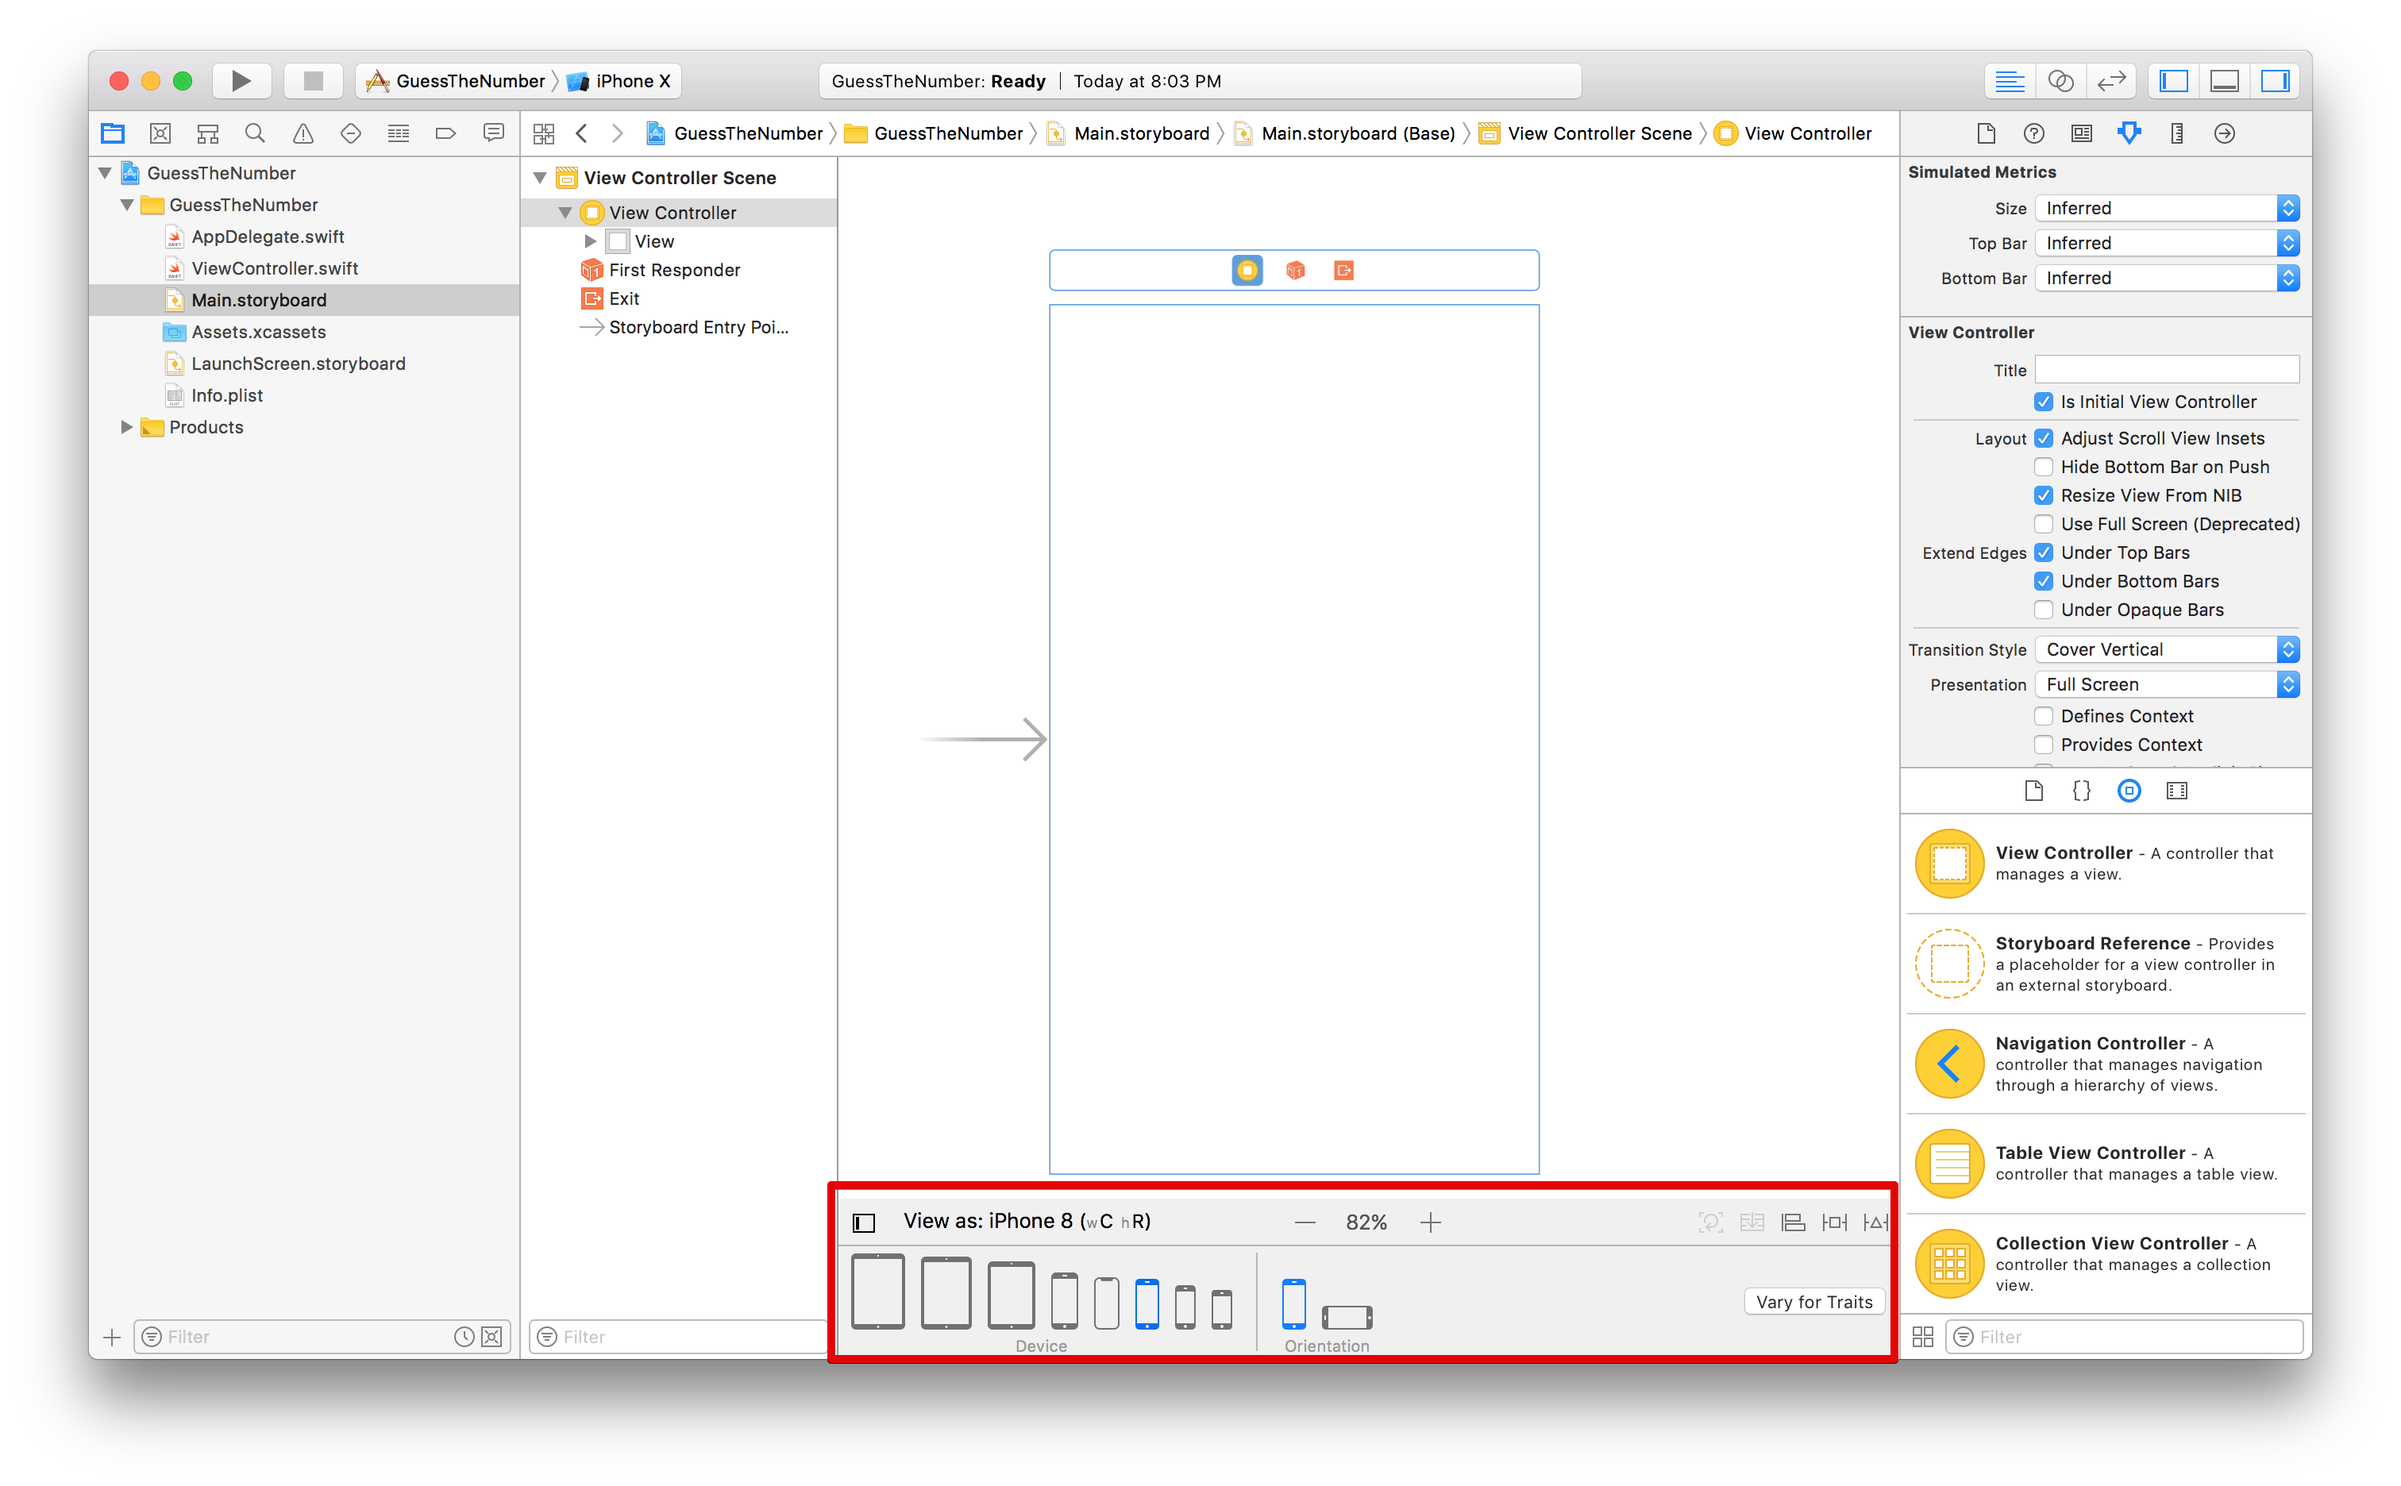
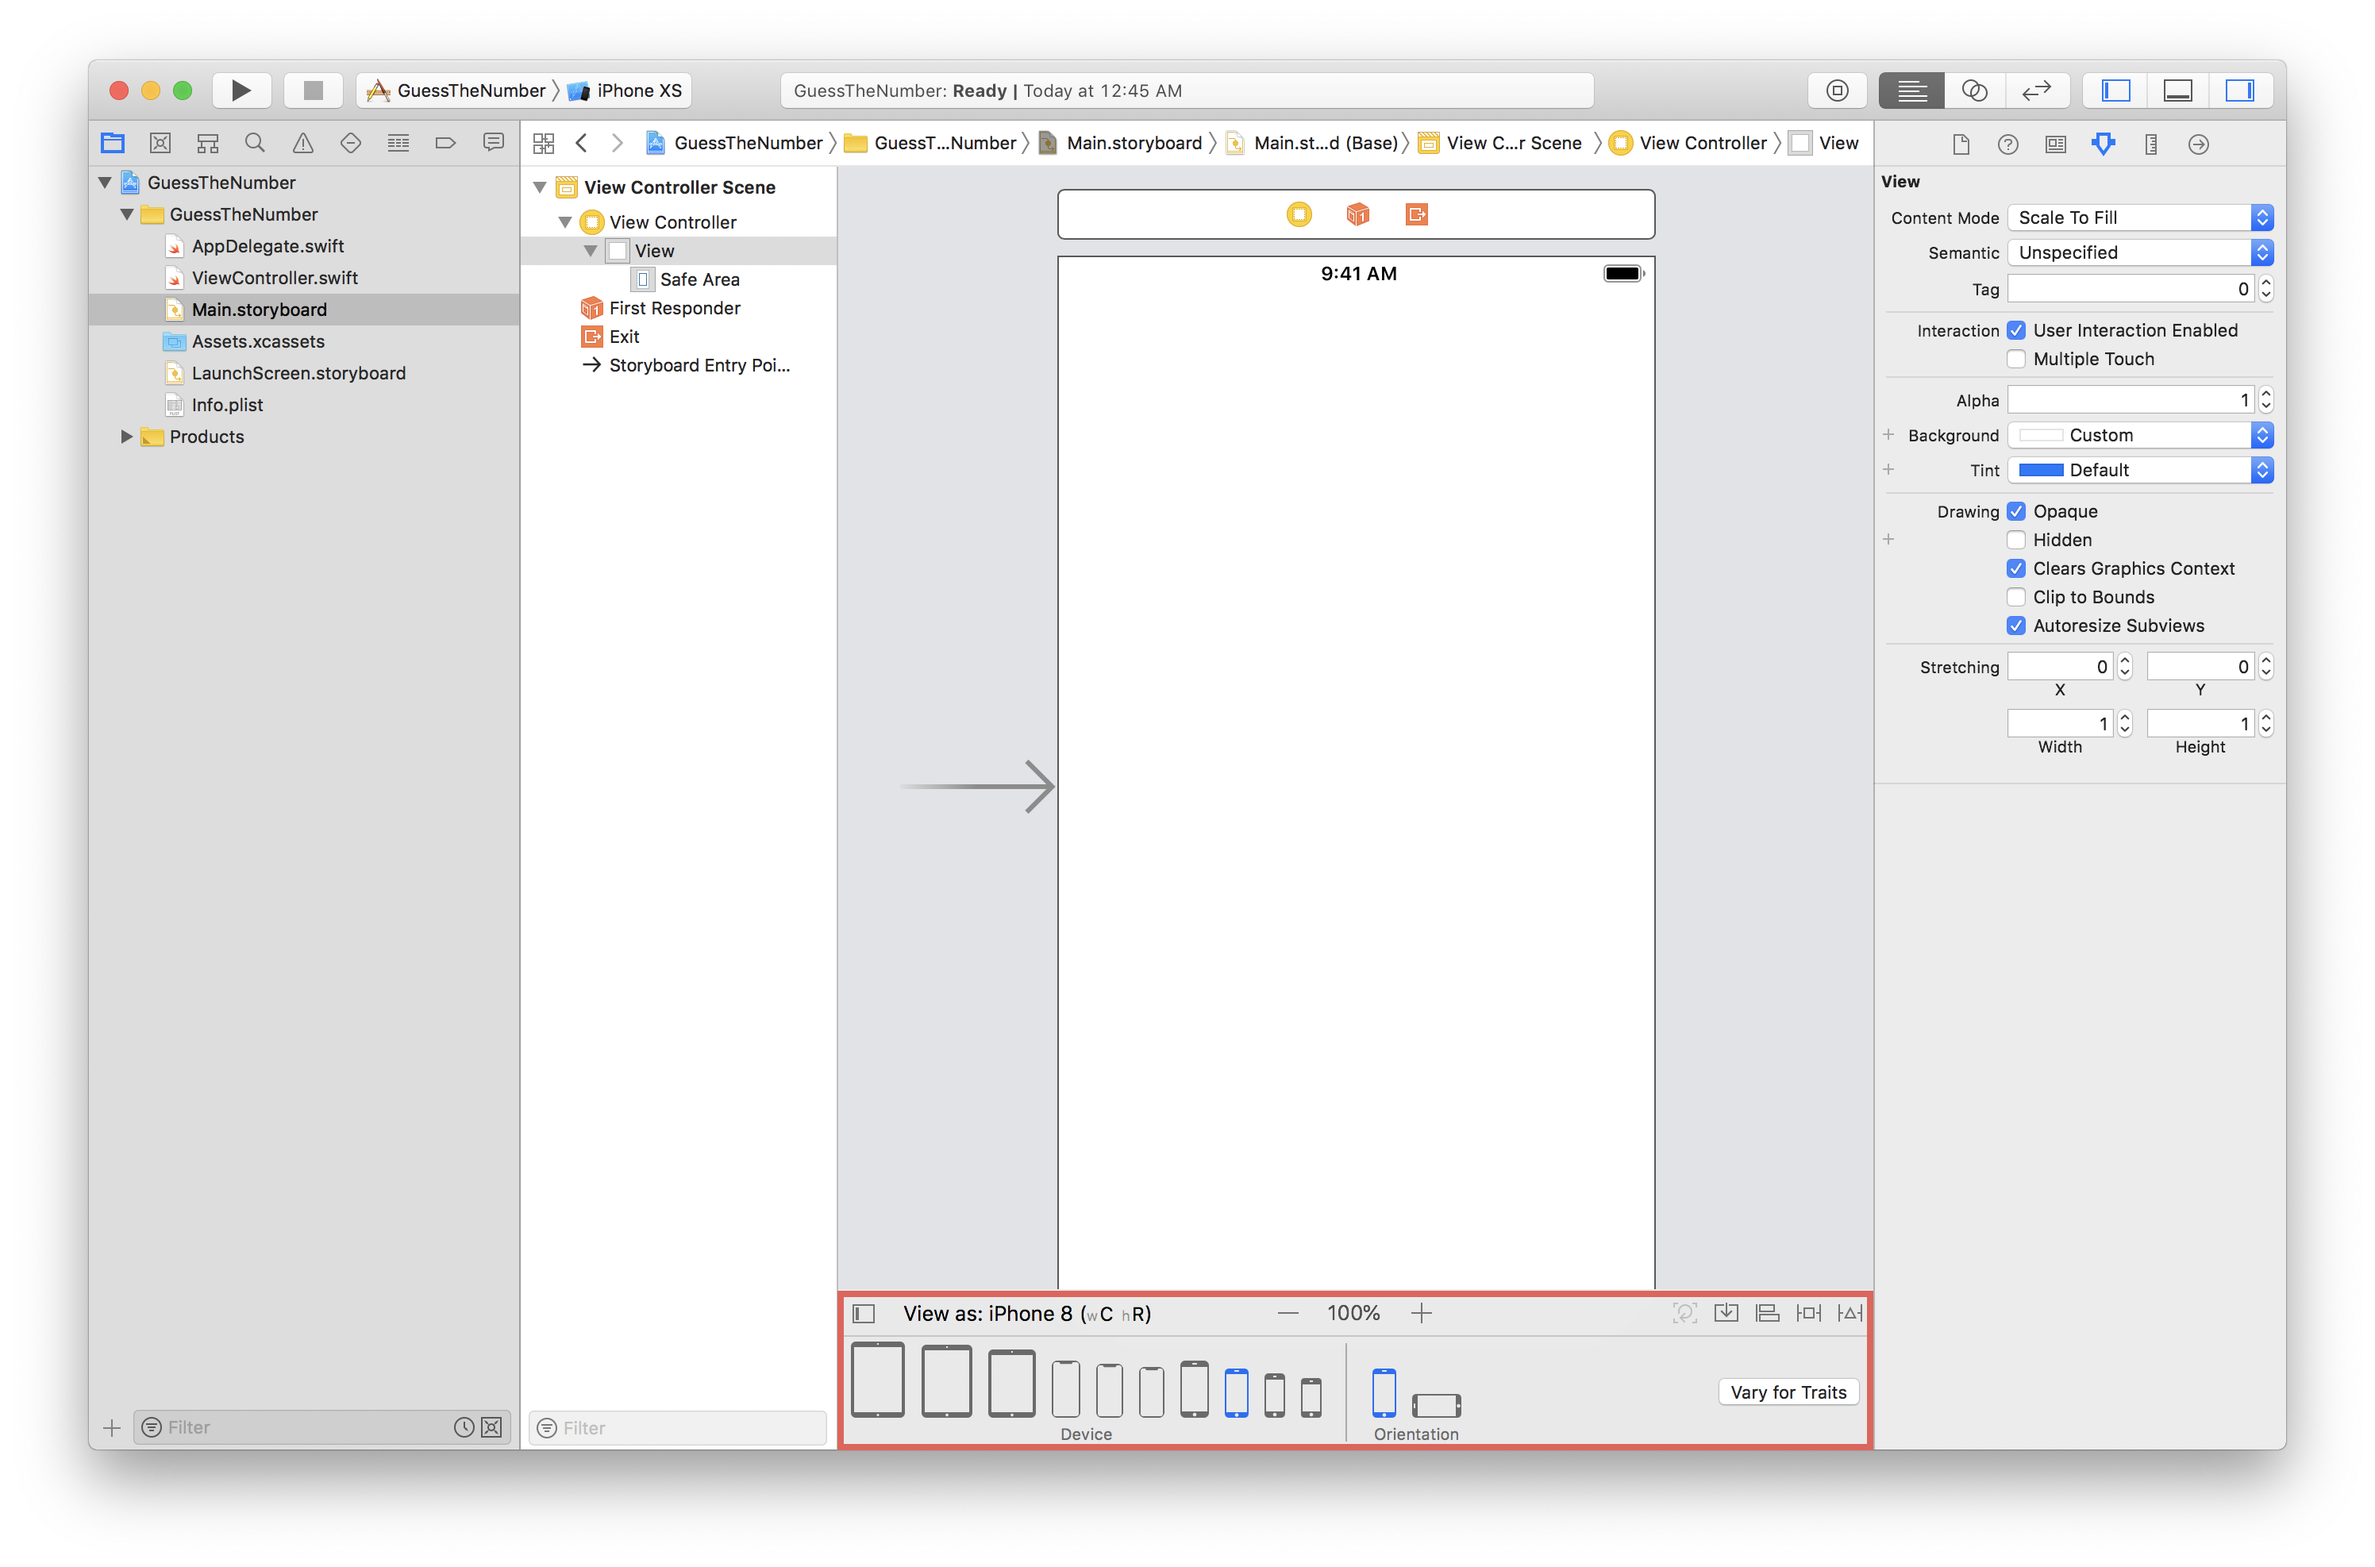
Add more new dark mode screenshots.

diff --git a/tutorials/guess-the-number/part2.md b/tutorials/guess-the-number/part2.md
@@ -11,17 +11,22 @@ permalink: /guess-the-number-part-2/
             content:url("../images/guess-the-number/projectSettings-dark.png");
         }
 
-        #createProject {
-            content:url("../images/guess-the-number/createProject-dark.png");
+        #storyboardPic {
+            content:url("../images/guess-the-number/storyboardPic-dark.png");
         }
 
-        #inputProjectName {
-            content:url("../images/guess-the-number/inputProjectName-dark.png");
+        #vcSize {
+            content:url("../images/guess-the-number/vcSize-dark.png");
         }
 
-        #saveProject {
-            content:url("../images/guess-the-number/saveProject-dark.png");
+        #uiPalette {
+            content:url("../images/guess-the-number/uiPalette-dark.png");
         }
+
+        #dragLabel {
+            content:url("../images/guess-the-number/dragLabel-dark.png");
+        }
+
     }
 </style>
 
@@ -32,7 +37,7 @@ and have a look around:
 
 You should see something that looks like this. There are three important parts worth knowing:
 
-<p align="center"> <img src="../images/guess-the-number/storyboardPic.png" align="center" style="max-width:75%"> </p>
+<p align="center"> <img id="storyboardPic" src="../images/guess-the-number/storyboardPic.png" align="center" style="max-width:75%"> </p>
 
 1. **Editor Canvas:** This is where you design your layouts. What you see here is what you will get when you run the app on your phone, to an extent.
 3. **The Inspector:** This pane is where you modify anything and everything. It shows options for whatever you have selected.
@@ -42,7 +47,7 @@ That screen in the middle is your first View Controller. Any changes you make to
 
 Notice in the bottom left corner of the Editor Canvas a button that says `View as: iPhone 8 (wC, hR)`. If you click on it it should pop up your Size and Orientation panel:
 
-<p align="center"> <img src="../images/guess-the-number/vcSize.png" align="center" style="max-width:75%"> </p>
+<p align="center"> <img id="vcSize" src="../images/guess-the-number/vcSize.png" align="center" style="max-width:75%"> </p>
 
 Here is where you can view your app in different screen sizes and orientation. The cool thing about XCode is that you can layout your views to fit any screen size and orientation, all on one app. For the purpose of this tutorial, keep the setting at iPhone 7.
 
@@ -57,11 +62,11 @@ Let's start building the screen!
 
 In order to display the title of the game, we are going to work with the Interface builder and the UI Palette. Scroll through the UI Palette until you find `Label`:
 
-<p align="center"> <img src="../images/guess-the-number/uiPalette.png" align="center" style="max-width:250px !important"> </p>
+<p align="center"> <img id="uiPalette" src="../images/guess-the-number/uiPalette.png" align="center" style="max-width:250px !important"> </p>
 
 You can drag components from the UI Palette into your View Controller. Go ahead and drag a `Label` over and drop it on somewhere on the view. The process should look something like this:
 
-<p align="center"> <img src="../images/guess-the-number/dragLabel.png" align="center" style="max-width:75%"> </p>
+<p align="center"> <img id="dragLabel" src="../images/guess-the-number/dragLabel.png" align="center" style="max-width:75%"> </p>
 
 Voila! There is a label now on your screen! You can actually customize the label by clicking on it and going to the **Attributes tab** on the right of the screen:
 
